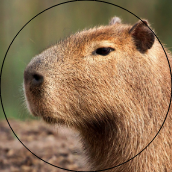
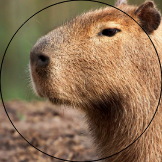
changement code photo de profil

diff --git a/src/main/resources/templates/editprofile.html b/src/main/resources/templates/editprofile.html
@@ -20,92 +20,98 @@
         <canvas id="output2" height="200" width="200" class="hidden b-2 bg-white mt-2"></canvas>
         <input type="range" min="20" max="" value=”100″ id="rectSize" class="hidden">
         <img id="output" class="hidden" /><br>
-        <script>
-          var loadFile = function(event) {
-            var output = document.getElementById('output');
-            output.src = URL.createObjectURL(event.target.files[0]);
-              console.log(document.getElementById("fileInput").files[0]);
-            output.onload = function() {
-              URL.revokeObjectURL(output.src)
-                var h=200;
-                var w=output.width*(h/output.height);
-                var output2 = document.getElementById('output2');
-                output2.width=w;
-                output2.classList.remove("hidden");
-                document.getElementById("rectSize").classList.remove("hidden");
-                var ctx=output2.getContext("2d");
-                ctx.drawImage(document.getElementById("output"), 0, 0,w,h);
-                var x=h/2;
-                var y=h/2;
-                var r=50;
-                var dragging=false;
-                var dragx=0;
-                var dragy=0;
-                ctx.beginPath();
-                ctx.arc(x,y,r,0,2*Math.PI);
-                ctx.stroke();
-                output2.addEventListener("mousedown",function(e){
-                  var rect = output2.getBoundingClientRect();
-                  var x2=e.clientX-rect.left;
-                  var y2=e.clientY-rect.top;
-                  if(Math.sqrt((x2-x)*(x2-x)+(y2-y)*(y2-y))<r){
+      <button type="submit" class="text-white bg-blue-700 rounded-lg mt-2">Sauvegarder</button>
+    </form>
+  </div>
+</div>
+</body>
+<script>
+    let x = 0;
+    let y = 0;
+    let r= 50;
+    var loadFile = function(event) {
+        var output = document.getElementById('output');
+        output.src = URL.createObjectURL(event.target.files[0]);
+        output.onload = function() {
+            URL.revokeObjectURL(output.src)
+            var h=200;
+            var w=output.width*(h/output.height);
+            var output2 = document.getElementById('output2');
+            output2.width=w;
+            output2.classList.remove("hidden");
+            document.getElementById("rectSize").classList.remove("hidden");
+            var ctx=output2.getContext("2d");
+            ctx.drawImage(document.getElementById("output"), 0, 0,w,h);
+            x=h/2;
+            y=h/2;
+            r=50;
+            var dragging=false;
+            var dragx=0;
+            var dragy=0;
+            ctx.beginPath();
+            ctx.arc(x,y,r,0,2*Math.PI);
+            ctx.stroke();
+            output2.addEventListener("mousedown",function(e){
+                var rect = output2.getBoundingClientRect();
+                var x2=e.clientX-rect.left;
+                var y2=e.clientY-rect.top;
+                if(Math.sqrt((x2-x)*(x2-x)+(y2-y)*(y2-y))<r){
                     dragging=true;
                     dragx=x2-x;
                     dragy=y2-y;
-                  }
-                });
-                document.getElementById("rectSize").addEventListener("input",function(e){
-                  r=e.target.value;
-                  ctx.clearRect(0, 0, output2.width, output2.height);
-                  ctx.drawImage(document.getElementById("output"), 0, 0,w,h);
-                  ctx.beginPath();
-                  ctx.arc(x,y,r,0,2*Math.PI);
-                  ctx.stroke();
-                });
-                output2.addEventListener("mousemove",function(e){
-                  if(dragging){
+                }
+            });
+            document.getElementById("rectSize").addEventListener("input",function(e){
+                r=e.target.value;
+                ctx.clearRect(0, 0, output2.width, output2.height);
+                ctx.drawImage(document.getElementById("output"), 0, 0,w,h);
+                ctx.beginPath();
+                ctx.arc(x,y,r,0,2*Math.PI);
+                ctx.stroke();
+                changeBase64();
+            });
+            output2.addEventListener("mousemove",function(e){
+                if(dragging){
                     var rect = output2.getBoundingClientRect();
                     var x2=e.clientX-rect.left;
                     var y2=e.clientY-rect.top;
                     x=x2-dragx;
                     y=y2-dragy;
                     if(x<r){
-                      x=r;
+                        x=r;
                     }
                     if(x>w-r){
-                      x=w-r;
+                        x=w-r;
                     }
                     if(y<r){
-                      y=r;
+                        y=r;
                     }
                     if(y>200-r){
-                      y=200-r;
+                        y=200-r;
                     }
                     ctx.clearRect(0, 0, output2.width, output2.height);
                     ctx.drawImage(document.getElementById("output"), 0, 0,w,h);
                     ctx.beginPath();
                     ctx.arc(x,y,r,0,2*Math.PI);
                     ctx.stroke();
-                    var imageData = ctx.getImageData(x-r,y-r,2*r,2*r);
-                    var canvas2 = document.createElement("canvas");
-                    canvas2.width=2*r;
-                    canvas2.height=2*r;
-                    var ctx2 = canvas2.getContext("2d");
-                    ctx2.putImageData(imageData,0,0);
-                    document.getElementById("base64").value=canvas2.toDataURL("image/png");
-                  }
-                });
-                output2.addEventListener("mouseup",function(e){
-                  dragging=false;
-                });
+                }
+            });
+            output2.addEventListener("mouseup",function(e){
+                dragging=false;
+                changeBase64();
+            });
 
 
-            }
-          };
-        </script>
-      <button type="submit" class="text-white bg-blue-700 rounded-lg mt-2">Sauvegarder</button>
-    </form>
-  </div>
-</div>
-</body>
+        }
+    };
+    function changeBase64(){
+        var imageData = document.getElementById("output2").getContext("2d").getImageData(x-r,y-r,2*r,2*r);
+        var canvas2 = document.createElement("canvas");
+        canvas2.width=2*r;
+        canvas2.height=2*r;
+        var ctx2 = canvas2.getContext("2d");
+        ctx2.putImageData(imageData,0,0);
+        document.getElementById("base64").value=canvas2.toDataURL("image/png");
+    }
+</script>
 </html>
